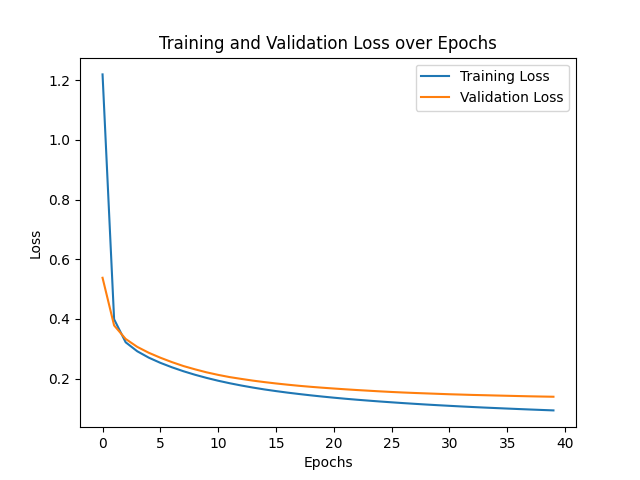
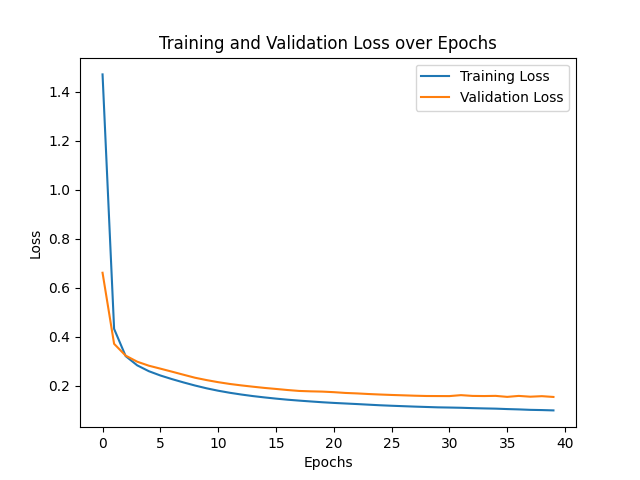
Added display option

diff --git a/train_mpg.py b/train_mpg.py
@@ -2,6 +2,8 @@
 # Dr. James Ghawaly
 # CSC 4700 
 
+import numpy as np
+import pandas as pd
 from mlp.loss import *
 from mlp.activation import *
 from loaders.mpg_load import load_mpg_dataset
@@ -9,6 +11,31 @@ from mlp.multi_perceptron import MultilayerPerceptron, initialize_layers, plot_t
 
 PADDING = 30
 
+def select_random_samples(x_test, y_test, num_samples=10):
+    """Select 10 random samples from the test set."""
+    random_indices = np.random.choice(len(x_test), num_samples, replace=False)
+    return x_test[random_indices], y_test[random_indices]
+
+def display_mpg_predictions(x_test, y_test, network_output):
+    """Displays predicted MPG against true MPG in a table."""
+    selected_samples, selected_true_labels = select_random_samples(x_test, y_test)
+    
+    # Get indices of the selected samples (since x_test and network_output should have matching shapes)
+    selected_indices = np.array([np.where(np.all(x_test == sample, axis=1))[0][0] for sample in selected_samples])
+    
+    # Use selected_indices to get the corresponding predictions
+    predictions = network_output[selected_indices]
+    
+    results_df = pd.DataFrame({
+        'True MPG': selected_true_labels.flatten(),
+        'Predicted MPG': predictions.flatten()
+    })
+
+    print("\nPredicted MPG vs True MPG:")
+    print(results_df)
+
+
+    
 if __name__ == '__main__':
      print('loading data...')
      (x_train, y_train), (x_val, y_val), (x_test, y_test) = load_mpg_dataset()
@@ -31,13 +58,13 @@ if __name__ == '__main__':
           hidden_activation=hidden_activation_function,
           output_activation=output_activation_function,
           num_hidden_layers=2,
-          neurons_in_hidden_layer=16, 
+          neurons_in_hidden_layer=128, 
           debug=True
      )
 
      # Training MLP
      
-     epochs = 200
+     epochs = 100
      save_dir = './images'
      save_name='mpg_bwalton.png'
 
@@ -56,11 +83,14 @@ if __name__ == '__main__':
      )
      
      print(f'{'='*PADDING}TESTING{'='*PADDING}')
-     network = multi_p.forward(x=x_test)
-     testing_loss = loss_function.loss(y_true=y_test, y_pred=network)
+     network_output = multi_p.forward(x=x_test)
+     testing_loss = loss_function.loss(y_true=y_test, y_pred=network_output)
      
      print(f'Testing Loss: {np.mean(testing_loss)}')
      
      print(f'{'='*PADDING}PLOTTING{'='*PADDING}')
      plot_training_graph(epochs, training_loss, validation_loss, save_dir, save_name)
+     
+     print(f'{"="*PADDING}PREDICTIONS{"="*PADDING}')
+     display_mpg_predictions(x_test, y_test, network_output)
      

diff --git a/train_mnist.py b/train_mnist.py
@@ -4,11 +4,44 @@
 
 from mlp.loss import *
 from mlp.activation import *
+import matplotlib.pyplot as plt
 from loaders.mnist_load import load_mnist_data
 from sklearn.model_selection import train_test_split
 from mlp.multi_perceptron import MultilayerPerceptron, initialize_layers, plot_training_graph
 
 PADDING = 30
+
+def select_samples_per_class(y_test, num_classes):
+    """Select one sample from each class (0-9)."""
+    sample_indices = []
+    labels = []
+    
+    for class_label in range(num_classes):
+        class_idx = np.where(np.argmax(y_test, axis=1) == class_label)[0][0]
+        sample_indices.append(class_idx)
+        labels.append(class_label)
+    
+    return sample_indices, labels
+
+def display_mnist_pred(x_test, y_test, network_output, num_classes):
+    """Displays the mnist images with predicted and true values"""
+    selected_indices, selected_labels = select_samples_per_class(y_test, num_classes)
+    
+    # Get predictions from network output
+    predictions = np.argmax(network_output[selected_indices], axis=1)
+
+    # Plot the selected images
+    _, axes = plt.subplots(2, 5, figsize=(15, 6))  # 2 rows, 5 columns
+    axes = axes.flatten()  
+
+    for i in range(len(selected_indices)):
+        sample_image = x_test[selected_indices[i]].reshape(28, 28)
+        axes[i].imshow(sample_image, cmap='gray')
+        axes[i].set_title(f'Pred: {predictions[i]}\nTrue: {selected_labels[i]}')
+        axes[i].axis('off')  # Hide the axes for better clarity
+
+    plt.tight_layout() 
+    plt.show()
 
 def accuracy(y_true, y_pred):
     """Calculate accuracy by comparing predicted and true labels."""
@@ -71,4 +104,8 @@ if __name__ == '__main__':
      
      print(f'{'='*PADDING}PLOTTING{'='*PADDING}')
      plot_training_graph(epochs, training_loss, validation_loss, save_dir, save_name)
+     
+     print(f'{'='*PADDING}EXAMPLES{'='*PADDING}')
+     display_mnist_pred(x_test, y_test, network_output, output_size)
+          
 
